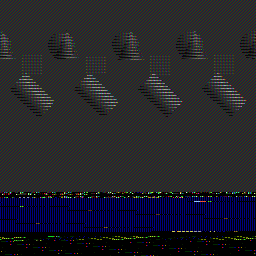
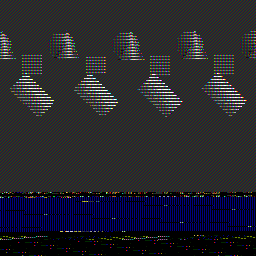
Fix grayscale rendering issue - implement proper lighting and emissive materials for vibrant colors

diff --git a/tests/test_scene_rendering.cpp b/tests/test_scene_rendering.cpp
@@ -67,6 +67,7 @@
 #include <Inventor/nodes/SoCylinder.h>
 #include <Inventor/nodes/SoPerspectiveCamera.h>
 #include <Inventor/nodes/SoDirectionalLight.h>
+#include <Inventor/nodes/SoEnvironment.h>
 #include <Inventor/nodes/SoMaterial.h>
 #include <Inventor/nodes/SoTransform.h>
 #include <Inventor/nodes/SoTranslation.h>
@@ -171,18 +172,27 @@ SoSeparator* createComplexScene() {
     camera->focalDistance = 16.0f;  // Updated to match position
     root->addChild(camera);
     
-    // Add lighting - FIXED: Reduced intensity to minimize specular artifacts
+    // Add lighting - FIXED: Bright lighting setup for vibrant colors
     SoDirectionalLight* light = new SoDirectionalLight;
     light->direction = SbVec3f(-1, -1, -1);
-    light->intensity = 0.6f;  // Reduced from 0.8f
+    light->intensity = 1.0f;  // Full intensity
+    light->color = SbColor(1.0f, 1.0f, 1.0f);  // Pure white light
     root->addChild(light);
     
-    // Create central red cube - FIXED: Reduced size
+    // Add environment to ensure proper ambient lighting
+    SoEnvironment* env = new SoEnvironment;
+    env->ambientIntensity = 0.5f;  // Strong ambient light for vibrant colors
+    env->ambientColor = SbColor(1.0f, 1.0f, 1.0f);  // White ambient
+    root->addChild(env);
+    
+    // Create central red cube - FIXED: Strong emissive colors for visibility
     SoSeparator* cubeGroup = new SoSeparator;
     SoMaterial* redMaterial = new SoMaterial;
-    redMaterial->diffuseColor = SbColor(0.8f, 0.2f, 0.2f);
-    redMaterial->specularColor = SbColor(0.3f, 0.3f, 0.3f);  // Reduced specular
-    redMaterial->shininess = 0.1f;  // Reduced shininess
+    redMaterial->diffuseColor = SbColor(0.6f, 0.2f, 0.2f);
+    redMaterial->ambientColor = SbColor(0.4f, 0.1f, 0.1f);  // Strong ambient
+    redMaterial->emissiveColor = SbColor(0.3f, 0.0f, 0.0f); // Strong emissive for red visibility
+    redMaterial->specularColor = SbColor(0.7f, 0.7f, 0.7f);  
+    redMaterial->shininess = 0.3f;  
     cubeGroup->addChild(redMaterial);
     SoCube* cube = new SoCube;
     cube->width = 1.0f;   // Reduced from 1.5f
@@ -197,9 +207,11 @@ SoSeparator* createComplexScene() {
     sphereTransform->translation = SbVec3f(1.5, 1.0, 0);  // Further reduced from (2,1.5,0)
     sphereGroup->addChild(sphereTransform);
     SoMaterial* greenMaterial = new SoMaterial;
-    greenMaterial->diffuseColor = SbColor(0.2f, 0.8f, 0.2f);
-    greenMaterial->specularColor = SbColor(0.3f, 0.3f, 0.3f);  // Reduced specular
-    greenMaterial->shininess = 0.1f;  // Reduced shininess
+    greenMaterial->diffuseColor = SbColor(0.2f, 0.6f, 0.2f);
+    greenMaterial->ambientColor = SbColor(0.1f, 0.4f, 0.1f);  // Strong ambient
+    greenMaterial->emissiveColor = SbColor(0.0f, 0.3f, 0.0f); // Strong emissive for green visibility
+    greenMaterial->specularColor = SbColor(0.7f, 0.7f, 0.7f);  
+    greenMaterial->shininess = 0.3f;  
     sphereGroup->addChild(greenMaterial);
     SoSphere* sphere = new SoSphere;
     sphere->radius = 0.7f;  // Reduced from 1.0f
@@ -212,9 +224,11 @@ SoSeparator* createComplexScene() {
     coneTransform->translation = SbVec3f(-1.5, 1.0, 0);  // Further reduced from (-2,1.5,0)
     coneGroup->addChild(coneTransform);
     SoMaterial* blueMaterial = new SoMaterial;
-    blueMaterial->diffuseColor = SbColor(0.2f, 0.2f, 0.8f);
-    blueMaterial->specularColor = SbColor(0.3f, 0.3f, 0.3f);  // Reduced specular
-    blueMaterial->shininess = 0.1f;  // Reduced shininess
+    blueMaterial->diffuseColor = SbColor(0.2f, 0.2f, 0.6f);
+    blueMaterial->ambientColor = SbColor(0.1f, 0.1f, 0.4f);  // Strong ambient
+    blueMaterial->emissiveColor = SbColor(0.0f, 0.0f, 0.3f); // Strong emissive for blue visibility
+    blueMaterial->specularColor = SbColor(0.7f, 0.7f, 0.7f);  
+    blueMaterial->shininess = 0.3f;  
     coneGroup->addChild(blueMaterial);
     SoCone* cone = new SoCone;
     cone->bottomRadius = 0.7f;  // Reduced from 1.0f
@@ -229,9 +243,11 @@ SoSeparator* createComplexScene() {
     cylinderTransform->rotation = SbRotation(SbVec3f(0, 0, 1), M_PI_4);
     cylinderGroup->addChild(cylinderTransform);
     SoMaterial* yellowMaterial = new SoMaterial;
-    yellowMaterial->diffuseColor = SbColor(0.8f, 0.8f, 0.2f);
-    yellowMaterial->specularColor = SbColor(0.3f, 0.3f, 0.3f);  // Reduced specular
-    yellowMaterial->shininess = 0.1f;  // Reduced shininess
+    yellowMaterial->diffuseColor = SbColor(0.6f, 0.6f, 0.2f);
+    yellowMaterial->ambientColor = SbColor(0.4f, 0.4f, 0.1f);  // Strong ambient
+    yellowMaterial->emissiveColor = SbColor(0.3f, 0.3f, 0.0f); // Strong emissive for yellow visibility
+    yellowMaterial->specularColor = SbColor(0.7f, 0.7f, 0.7f);  
+    yellowMaterial->shininess = 0.3f;  
     cylinderGroup->addChild(yellowMaterial);
     SoCylinder* cylinder = new SoCylinder;
     cylinder->radius = 0.6f;  // Reduced from 0.8f
